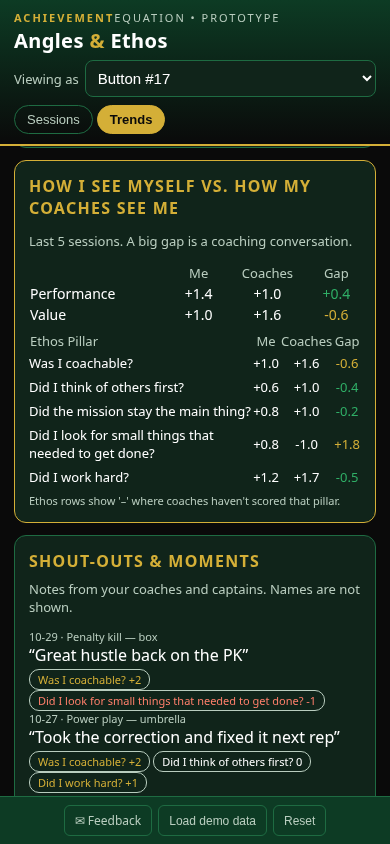
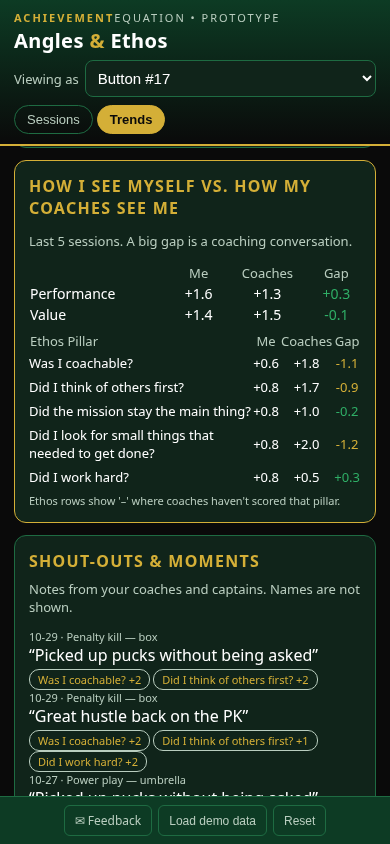
Additional Factors: legend highlight, 1-5 hint at top, Meals + Other notes with share control; shared off-ice notes cards

diff --git a/index.html b/index.html
@@ -42,19 +42,21 @@ const uid=()=>Math.random().toString(36).slice(2,9);
 let S=load(); let tab=null; let draft={};
 function blank(){return{team:'My Team',users:[{id:'coach1',name:'Coach',role:'coach'}],ethos:['Was I coachable?','Did I think of others first?','Did the mission stay the main thing?','Did I look for small things that needed to get done?','Did I work hard?'],angles:{tools:'Tools',technology:'Technology'},sessions:[],entries:[],others:[],me:'coach1'}}
 function migrate(d){const b=blank();if(!d||typeof d!=='object')return b;d.angles={tools:'Tools',technology:'Technology'};for(const k in b)if(d[k]==null)d[k]=b[k];if(!Array.isArray(d.ethos)||d.ethos.some(x=>/placeholder/i.test(x)))d.ethos=b.ethos;while(d.ethos.length<5)d.ethos.push(b.ethos[d.ethos.length]);
- ['users','sessions','entries','others'].forEach(k=>{if(!Array.isArray(d[k]))d[k]=[]});d.entries.forEach(e=>{if(!Array.isArray(e.ethos))e.ethos=[];if(!Array.isArray(e.ethosNotes))e.ethosNotes=[];if(!Array.isArray(e.techScores))e.techScores=[];e.factors=e.factors||{};if(!Array.isArray(e.toolScores)){e.toolScores=[];e.techGear=[];if(e.tools||e.tech)e.gearNote=[e.tools&&('Tools: '+e.tools),e.tech&&('Technology: '+e.tech)].filter(Boolean).join(' · ');if(e.tech==='N/A')e.techNA=true}if(!Array.isArray(e.techGear))e.techGear=[]});d.sessions.forEach(x=>{if(!Array.isArray(x.techniques))x.techniques=[];if(!Array.isArray(x.tools))x.tools=[];if(!Array.isArray(x.tech))x.tech=[]});d.users.forEach(u=>{if(u.role!=='coach'&&!POS[u.pos])u.pos='F'});d.sessions.forEach(x=>{if(!x.groups||typeof x.groups!=='object')x.groups={};for(const g in x.groups){const c=x.groups[g];if(!POS[g]||!c||typeof c!=='object'){delete x.groups[g];continue}['techniques','tools','tech'].forEach(k=>{if(!Array.isArray(c[k]))c[k]=[]});if(!c.techniques.length)delete x.groups[g]}if(x.scope!=='team'&&x.scope!=='groups'){if(Object.keys(x.groups).length){Object.keys(POS).forEach(g=>{if(!x.groups[g])x.groups[g]={techniques:[...x.techniques],tools:[...x.tools],tech:[...x.tech]}});x.scope='groups'}else x.scope='team'}if(x.scope==='groups'){for(const g in x.groups)if(typeof x.groups[g].tactic!=='string'||!x.groups[g].tactic)x.groups[g].tactic=x.tactic||'';if(!Object.keys(x.groups).length)x.scope='team'}else x.groups={};if(typeof x.tactic!=='string')x.tactic=''});d.sessions.forEach(x=>{const n=x.coachNotes;if(!n||typeof n!=='object'||Array.isArray(n)){x.coachNotes=typeof n==='string'&&n.trim()?{change:n,learned:'',surprised:'',at:null}:null}else['change','learned','surprised'].forEach(k=>{if(typeof n[k]!=='string')n[k]=''})});d.entries.forEach(e=>{const f=e.factors;if(f.life===undefined&&f.rec===undefined&&f.nutrition===undefined){const ok=v=>typeof v==='number'&&v>=1&&v<=5;const nf={sleepH:f.sleepH??null,sleep:ok(f.sleepQ)?f.sleepQ:null,nutrition:ok(f.nutr)?f.nutr:null,life:ok(f.stress)?6-f.stress:null,notes:f.notes||''};const rr=[ok(f.sore)?6-f.sore:null,ok(f.hyd)?f.hyd:null].filter(v=>v!=null);nf.rec=rr.length?Math.round(rr.reduce((a,b)=>a+b,0)/rr.length*10)/10:null;e.factors=nf}});d.others.forEach(o=>{if(!Array.isArray(o.ethos))o.ethos=[];o.ethos=o.ethos.slice(0,5).map(v=>typeof v==='number'&&v>=-1&&v<=2?v:null);if(typeof o.note!=='string')o.note=''});d.v=8;return d}
+ ['users','sessions','entries','others'].forEach(k=>{if(!Array.isArray(d[k]))d[k]=[]});d.entries.forEach(e=>{if(!Array.isArray(e.ethos))e.ethos=[];if(!Array.isArray(e.ethosNotes))e.ethosNotes=[];if(!Array.isArray(e.techScores))e.techScores=[];e.factors=e.factors||{};if(!Array.isArray(e.toolScores)){e.toolScores=[];e.techGear=[];if(e.tools||e.tech)e.gearNote=[e.tools&&('Tools: '+e.tools),e.tech&&('Technology: '+e.tech)].filter(Boolean).join(' · ');if(e.tech==='N/A')e.techNA=true}if(!Array.isArray(e.techGear))e.techGear=[]});d.sessions.forEach(x=>{if(!Array.isArray(x.techniques))x.techniques=[];if(!Array.isArray(x.tools))x.tools=[];if(!Array.isArray(x.tech))x.tech=[]});d.users.forEach(u=>{if(u.role!=='coach'&&!POS[u.pos])u.pos='F'});d.sessions.forEach(x=>{if(!x.groups||typeof x.groups!=='object')x.groups={};for(const g in x.groups){const c=x.groups[g];if(!POS[g]||!c||typeof c!=='object'){delete x.groups[g];continue}['techniques','tools','tech'].forEach(k=>{if(!Array.isArray(c[k]))c[k]=[]});if(!c.techniques.length)delete x.groups[g]}if(x.scope!=='team'&&x.scope!=='groups'){if(Object.keys(x.groups).length){Object.keys(POS).forEach(g=>{if(!x.groups[g])x.groups[g]={techniques:[...x.techniques],tools:[...x.tools],tech:[...x.tech]}});x.scope='groups'}else x.scope='team'}if(x.scope==='groups'){for(const g in x.groups)if(typeof x.groups[g].tactic!=='string'||!x.groups[g].tactic)x.groups[g].tactic=x.tactic||'';if(!Object.keys(x.groups).length)x.scope='team'}else x.groups={};if(typeof x.tactic!=='string')x.tactic=''});d.sessions.forEach(x=>{const n=x.coachNotes;if(!n||typeof n!=='object'||Array.isArray(n)){x.coachNotes=typeof n==='string'&&n.trim()?{change:n,learned:'',surprised:'',at:null}:null}else['change','learned','surprised'].forEach(k=>{if(typeof n[k]!=='string')n[k]=''})});d.entries.forEach(e=>{const f=e.factors;if(f.life===undefined&&f.rec===undefined&&f.nutrition===undefined){const ok=v=>typeof v==='number'&&v>=1&&v<=5;const nf={sleepH:f.sleepH??null,sleep:ok(f.sleepQ)?f.sleepQ:null,nutrition:ok(f.nutr)?f.nutr:null,life:ok(f.stress)?6-f.stress:null,notes:f.notes||''};const rr=[ok(f.sore)?6-f.sore:null,ok(f.hyd)?f.hyd:null].filter(v=>v!=null);nf.rec=rr.length?Math.round(rr.reduce((a,b)=>a+b,0)/rr.length*10)/10:null;e.factors=nf}});d.others.forEach(o=>{if(!Array.isArray(o.ethos))o.ethos=[];o.ethos=o.ethos.slice(0,5).map(v=>typeof v==='number'&&v>=-1&&v<=2?v:null);if(typeof o.note!=='string')o.note=''});d.entries.forEach(e=>{const f=e.factors;if(f.meals===undefined&&f.other===undefined){const n=(f.notes||'').trim();f.meals=/pasta|chicken|pre-game|meal|ate|breakfast|lunch|dinner|snack/i.test(n)?n:'';f.other=f.meals?'':n}if(typeof f.meals!=='string')f.meals='';if(typeof f.other!=='string')f.other='';delete f.notes;if(!['me','coach','cc'].includes(f.share))f.share='me'});d.v=10;return d}
+function sharedNotes(aids,viewer,title){const A=new Set(aids),ok=viewer==='captain'?['cc']:['coach','cc'];const L=S.entries.filter(e=>A.has(e.athleteId)&&e.factors&&ok.includes(e.factors.share)&&((e.factors.meals||'').trim()||(e.factors.other||'').trim())&&sess(e.sessionId)).sort((a,b)=>sess(b.sessionId).date.localeCompare(sess(a.sessionId).date)).slice(0,8);return `<div class="card sharedn"><h2>${title||'Shared off-ice notes'}</h2><p class="muted" style="margin-top:0">${viewer==='captain'?'Only notes players shared with coaches &amp; captains.':'Notes players chose to share with coaches (or coaches &amp; captains).'}</p>${L.length?L.map(e=>{const u=S.users.find(u=>u.id===e.athleteId),x=sess(e.sessionId),f=e.factors;return `<div class="it" style="display:block"><div><b>${esc(u?u.name:'?')}</b> <span class="muted" style="font-size:11px">${x.date.slice(5)} · ${f.share==='cc'?'Coaches &amp; captains':'Coaches'}</span></div>${f.meals?`<div style="font-size:13px"><span class="muted">Meals:</span> ${esc(f.meals)}</div>`:''}${f.other?`<div style="font-size:13px"><span class="muted">Other:</span> ${esc(f.other)}</div>`:''}</div>`}).join(''):'<p class="muted">Nothing shared yet.</p>'}</div>`}
 const SCL=()=>(S.users.find(u=>u.id===S.me)||{}).role==='captain'?'Captain Score':'Coach Score';
 const ESH=['Coachable','Others first','Mission','Small things','Work hard'];
 function playerCmp(aid){const L=sorted().filter(x=>S.entries.some(e=>e.sessionId===x.id&&e.athleteId===aid)||S.others.some(o=>o.sessionId===x.id&&o.athleteId===aid)).slice(-5),ids=new Set(L.map(x=>x.id));const EN=S.entries.filter(e=>ids.has(e.sessionId)&&e.athleteId===aid),OT=S.others.filter(o=>ids.has(o.sessionId)&&o.athleteId===aid);return [{n:'Tm Perf',me:avg(EN.map(e=>e.selfPerf)),co:avg(OT.map(o=>o.perf))},{n:'Tm Value',me:avg(EN.map(e=>e.selfVal)),co:avg(OT.map(o=>o.val))},...S.ethos.map((_,i)=>({n:ESH[i]||('Pillar '+(i+1)),me:avg(EN.map(e=>(e.ethos||[])[i])),co:avg(OT.map(o=>(o.ethos||[])[i]))}))]}
 function playerEthosCard(as,lab){if(!as.length)return '';const cols=playerCmp(as[0].id).map(c=>c.n);const cell=(c,big)=>{let g=c.me!=null&&c.co!=null?c.me-c.co:null;if(g!=null&&Math.abs(g)<0.05)g=0;const col=g==null?'inherit':Math.abs(g)<0.5?'#2fae66':'#d4af37';return `<td style="text-align:center;padding:4px 5px;white-space:nowrap;border-left:1px solid #1e6b42;${big?'background:rgba(255,127,107,.18);outline:1px solid #ff7f6b;':''}"><span>${fmt(c.me)}</span><span class="muted"> / </span><span>${c.co==null?'–':fmt(c.co)}</span><br><b style="color:${col};font-size:11px">${g==null?'–':(g>0?'+':'')+g.toFixed(1)}</b>${big?'<div style="font-size:9px;color:#ff7f6b">▲ overrates</div>':''}</td>`};const rows=as.map(a=>{const cs=playerCmp(a.id);let bi=-1,bg=0.5;cs.forEach((c,i)=>{if(c.me!=null&&c.co!=null&&c.me-c.co>=bg){bg=c.me-c.co;bi=i}});return `<tr data-drill="${a.id}" style="cursor:pointer;border-top:1px solid #1e6b42"><td style="position:sticky;left:0;background:var(--navy2);padding:4px 6px;white-space:nowrap;font-weight:600">${esc(a.name)} <span class="tag">${POS[posOf(a)]}</span> ›</td>${cs.map((c,i)=>cell(c,i===bi)).join('')}</tr>`}).join('');return `<div class="card pecard"><h2>${lab}: Player Ethos &amp; Teammates — Self vs Coach</h2><p class="muted" style="margin-top:0">Last 5 sessions per player. Each cell: Self / Coach, Gap below (green = small, gold = big). <span style="color:#ff7f6b">Coral</span> = player's biggest overrating (Self ≥0.5 above Coach). '–' = not scored. Tap a player for their trends.</p><div style="overflow-x:auto;-webkit-overflow-scrolling:touch"><table style="border-collapse:collapse;font-size:12px;min-width:640px"><tr class="muted"><td style="position:sticky;left:0;background:var(--navy2);padding:4px 6px">Player</td>${cols.map(c=>`<td style="text-align:center;padding:4px 5px;white-space:nowrap">${c}</td>`).join('')}</tr>${rows}</table></div><div class="muted" style="font-size:11px;margin-top:6px;line-height:1.4">Tm Perf / Tm Value = Teammates Performance / Value. ${S.ethos.map((n,i)=>`<b>${ESH[i]||'Pillar '+(i+1)}</b>: ${esc(n)}`).join(' · ')}</div></div>`}
 function ethosCmp(aids){const A=new Set(aids);const L=sorted().filter(x=>S.entries.some(e=>e.sessionId===x.id&&A.has(e.athleteId))||S.others.some(o=>o.sessionId===x.id&&A.has(o.athleteId))).slice(-5),ids=new Set(L.map(x=>x.id));const EN=S.entries.filter(e=>ids.has(e.sessionId)&&A.has(e.athleteId)),OT=S.others.filter(o=>ids.has(o.sessionId)&&A.has(o.athleteId));return S.ethos.map((n,i)=>({n,me:avg(EN.map(e=>(e.ethos||[])[i])),co:avg(OT.map(o=>(o.ethos||[])[i])),c:OT.filter(o=>(o.ethos||[])[i]!=null).length}))}
 function ethosTable(rows,meLab){const gap=(a,c)=>{const g=(a!=null&&c!=null)?a-c:null;return `<td style="text-align:center;color:${g==null?'inherit':Math.abs(g)<0.5?'#2fae66':'#d4af37'}">${g==null?'–':(g>0?'+':'')+g.toFixed(1)}</td>`};return `<table class="ethcmp" style="width:100%;border-collapse:collapse;font-size:13px;margin-top:6px"><tr class="muted"><td>Ethos Pillar</td><td style="text-align:center">${meLab}</td><td style="text-align:center">Coaches</td><td style="text-align:center">Gap</td></tr>${rows.map(r=>`<tr><td style="padding:3px 0">${esc(r.n)}</td><td style="text-align:center">${fmt(r.me)}</td><td style="text-align:center">${r.co==null?'–':fmt(r.co)}</td>${r.co==null?'<td style="text-align:center">–</td>':gap(r.me,r.co)}</tr>`).join('')}</table>`}
+let facHi=(()=>{try{return sessionStorage.getItem('ae_facHi')||null}catch(e){return null}})();
 const FAC=[{k:'sleep',n:'Sleep',c:'#d4af37'},{k:'nutrition',n:'Nutrition',c:'#ffffff'},{k:'life',n:'Life away from the ice',c:'#5ec8f2'},{k:'rec',n:'Recovery',c:'#ff7f6b'}];
 function facChart(pts,ctx){if(!pts.some(p=>FAC.some(f=>p[f.k]!=null)))return '<p class="muted">No Additional Factors logged yet.</p>';const W=340,H=170,L=26,R=ctx?26:6,T=8,B=20,iw=W-L-R,ih=H-T-B;const y=v=>T+ih*(1-(v-1)/4),x=i=>L+(pts.length<2?iw/2:iw*i/(pts.length-1));let g='';[1,2,3,4,5].forEach(v=>g+=`<line x1="${L}" x2="${W-R}" y1="${y(v)}" y2="${y(v)}" stroke="#1e6b42" stroke-dasharray="2 3"/><text x="8" y="${y(v)+3}">${v}</text>`);
  if(ctx){const cy=v=>T+ih*(1-(v+1)/3);let d='';pts.forEach((p,i)=>{if(p[ctx.k]!=null)d+=(d?'L':'M')+x(i).toFixed(1)+','+cy(p[ctx.k]).toFixed(1)});g+=`<path d="${d}" fill="none" stroke="#9fbfa9" stroke-width="1.5" stroke-dasharray="4 3" opacity=".55"/><text x="${W-R+2}" y="${cy(0)+3}">0</text><text x="${W-R+2}" y="${cy(2)+3}">+2</text>`}
- FAC.forEach(l=>{let d='';pts.forEach((p,i)=>{if(p[l.k]!=null)d+=(d?'L':'M')+x(i).toFixed(1)+','+y(p[l.k]).toFixed(1)});g+=`<path class="fac-${l.k}" d="${d}" fill="none" stroke="${l.c}" stroke-width="2"/>`;pts.forEach((p,i)=>{if(p[l.k]!=null)g+=`<circle cx="${x(i)}" cy="${y(p[l.k])}" r="2.2" fill="${l.c}"/>`})});
+ const hi=FAC.some(f=>f.k===facHi)?facHi:null;FAC.forEach(l=>{const op=!hi||hi===l.k?1:.15,sw=hi===l.k?3.5:2;let d='';pts.forEach((p,i)=>{if(p[l.k]!=null)d+=(d?'L':'M')+x(i).toFixed(1)+','+y(p[l.k]).toFixed(1)});g+=`<path class="fac-${l.k}" d="${d}" fill="none" stroke="${l.c}" stroke-width="${sw}" opacity="${op}"/>`;pts.forEach((p,i)=>{if(p[l.k]!=null)g+=`<circle cx="${x(i)}" cy="${y(p[l.k])}" r="${hi===l.k?3.2:2.2}" fill="${l.c}" opacity="${op}"/>`})});
  const step=Math.ceil(pts.length/6);pts.forEach((p,i)=>{if(i%step===0)g+=`<text x="${x(i)-10}" y="${H-5}">${p.label}</text>`});
- return `<svg viewBox="0 0 ${W} ${H}" width="100%">${g}</svg><div class="legend">${FAC.map(l=>`<span><i style="background:${l.c}"></i>${l.n}</span>`).join('')}${ctx?`<span><i style="background:#9fbfa9;opacity:.6"></i>${ctx.n} (dashed, right axis)</span>`:''}</div><p class="muted" style="font-size:11px;margin:4px 0 0">Rated 1–5, higher = better.</p>`}
+ return `<svg viewBox="0 0 ${W} ${H}" width="100%">${g}</svg><div class="legend faclg"><span data-fac="" style="cursor:pointer;padding:2px 8px;border:1px solid ${hi?'var(--line)':'var(--gold)'};border-radius:10px;${hi?'':'color:var(--gold)'}">All</span>${FAC.map(l=>`<span data-fac="${l.k}" style="cursor:pointer;padding:2px 6px;border-radius:10px;opacity:${!hi||hi===l.k?1:.4};${hi===l.k?`border:1px solid ${l.c};font-weight:700`:'border:1px solid transparent'}"><i style="background:${l.c}"></i>${l.n}</span>`).join('')}${ctx?`<span><i style="background:#9fbfa9;opacity:.6"></i>${ctx.n} (dashed, right axis)</span>`:''}</div><p class="muted" style="font-size:11px;margin:4px 0 0">Rated 1–5, higher = better. Tap a factor to highlight it.</p>`}
 const facPts=(es)=>Object.fromEntries(FAC.map(f=>[f.k,avg(es.map(e=>e?.factors?.[f.k]))]));
 const posOf=u=>u&&POS[u.pos]?u.pos:'F';
 const lines=id=>document.getElementById(id).value.split('\n').map(s=>s.trim()).filter(Boolean);
@@ -132,19 +134,19 @@ log(){const ss=sessFor(S.me).reverse();if(!ss.length)return `<div class="card"><
  <label>Gear note (optional)</label><input id="gNote" value="${esc(d.gearNote)}" placeholder="e.g. Edges felt dull in 3rd period"></div>
  <h2 class="half">Part B · As a Teammate &amp; Member <span class="muted">(Ethos)</span></h2>
  <div class="card"><h2>How I made my team &amp; organization better</h2><p class="muted">Required each session. Answer all 5 Ethos Pillars (no Elite — Elite only exists vs an opponent).</p>${S.ethos.map((e,i)=>`<h3>${i+1}. ${esc(e)} ${/placeholder/i.test(e)?'<span class="ph">GM to supply</span>':''}</h3>${scaleHTML('e'+i,(d.ethos||[])[i],false)}<input class="enote" id="en${i}" value="${esc((d.ethosNotes||[])[i])}" placeholder="How I lived it (optional)">`).join('')}</div>
- <h2 class="half">Additional Factors</h2><div class="card"><p class="muted" style="margin-top:0;font-style:italic">Add when able. Notice how these impact you as an athlete, and collectively as a team.</p><div class="row"><div><label>Sleep (hrs)</label><input type="number" step="0.5" id="f_sleepH" value="${f.sleepH??''}"></div><div><label>Sleep 1-5</label><input type="number" min="1" max="5" id="f_sleep" value="${f.sleep??''}"></div></div>
+ <h2 class="half">Additional Factors</h2><div class="card"><p class="muted" style="margin-top:0;font-style:italic">Add when able. Notice how these impact you as an athlete, and collectively as a team.</p><p class="fhint" style="margin:6px 0 8px;padding:6px 8px;border-left:3px solid var(--gold);font-size:12px"><b style="color:var(--gold)">Rate 1–5 — higher is better.</b><br><span class="muted">Life away from the ice: school, family, stress (5 = calm). Recovery: soreness, hydration, rest (5 = fresh).</span></p><div class="row"><div><label>Sleep (hrs)</label><input type="number" step="0.5" id="f_sleepH" value="${f.sleepH??''}"></div><div><label>Sleep 1-5</label><input type="number" min="1" max="5" id="f_sleep" value="${f.sleep??''}"></div></div>
  <div class="row"><div><label>Nutrition 1-5</label><input type="number" min="1" max="5" id="f_nutrition" value="${f.nutrition??''}"></div><div><label>Life away from the ice 1-5</label><input type="number" min="1" max="5" id="f_life" value="${f.life??''}"></div></div>
- <div class="row"><div><label>Recovery 1-5</label><input type="number" min="1" max="5" id="f_rec" value="${f.rec??''}"></div><div></div></div><p class="muted" style="font-size:11px;margin:2px 0 6px">All 1–5, higher = better. Life away from the ice: school, family, stress (5 = calm). Recovery: soreness, hydration, rest (5 = fresh).</p>
- <label>Meals / notes</label><textarea id="f_notes" rows="2">${esc(f.notes)}</textarea></div>
+ <div class="row"><div><label>Recovery 1-5</label><input type="number" min="1" max="5" id="f_rec" value="${f.rec??''}"></div><div></div></div>
+ <label>Meals <span class="muted">(what I ate)</span></label><textarea id="f_meals" rows="2" placeholder="e.g. Pasta + chicken pre-game">${esc(f.meals||'')}</textarea><label>Other notes <span class="muted">(sleep, life away from the ice, recovery)</span></label><textarea id="f_other" rows="2" placeholder="e.g. Late night studying; legs sore from yesterday">${esc(f.other||'')}</textarea><label>Share these notes with</label><select id="f_share">${[['me','Just me'],['coach','My coaches'],['cc','Coaches & captains']].map(([v,l])=>`<option value="${v}" ${(f.share||'me')===v?'selected':''}>${l}</option>`).join('')}</select><p class="muted" style="font-size:11px;margin:4px 0 0">Applies to Meals and Other notes. Share only with people who've earned your trust. You can change this anytime.</p></div>
  <button class="btn" id="saveLog" style="width:100%">Save session (Player + Member)</button>`},
 others(){const ss=sorted().reverse();if(!ss.length)return '<div class="card"><p class="muted">No sessions yet.</p></div>';
  if(!draft.osid||!sess(draft.osid))draft.osid=ss[0].id;const x=sess(draft.osid),comp=x.type==='competition';
  return `<div class="card"><h2>Score Others</h2><p class="muted">Rate each teammate on Performance and Value. Ethos Pillars are optional.</p><select id="pickO">${ss.map(s=>`<option value="${s.id}" ${s.id===x.id?'selected':''}>${s.date} · ${esc(s.tactic)}</option>`).join('')}</select></div>`+
  athletes().filter(a=>a.id!==S.me&&inSess(x,a.id)).map(a=>{const o=S.others.find(o=>o.sessionId===x.id&&o.athleteId===a.id&&o.raterId===S.me)||{};
  return `<div class="card"><h3 style="margin-top:0">${esc(a.name)} ${a.number?'#'+a.number:''} ${a.role==='captain'?'<span class="tag comp">C</span>':''}</h3><div class="osec" style="color:var(--gold);font-weight:700;font-size:13px;letter-spacing:.04em;margin-top:6px">Angles · Teammates (${SCL()})</div><label>Performance</label>${scaleHTML('op|'+a.id,o.perf,comp)}<label>Value</label>${scaleHTML('ov|'+a.id,o.val,comp)}${(()=>{const oe=o.ethos||[],cnt=oe.filter(v=>v!=null).length;return `<details class="oeth" data-aid="${a.id}" ${draft.oOpen&&draft.oOpen[a.id]?'open':''} style="margin-top:10px"><summary style="cursor:pointer;color:var(--gold);font-weight:600">Ethos Pillars (${SCL()}, optional)${cnt?` · ${cnt}/5 scored`:''}${o.note?' · note':''}</summary><p class="muted" style="font-size:11px;margin:4px 0">Score any pillars you noticed. Tap again to clear.</p>${S.ethos.map((n,i)=>`<label>${esc(n)}</label>${scaleHTML('oe'+i+'|'+a.id,oe[i],false)}`).join('')}<label>Moment I noticed</label><input id="on_${a.id}" class="onote" data-aid="${a.id}" maxlength="200" placeholder="Optional: a low moment or a great one" value="${esc(o.note||'')}"></details>`})()}</div>`}).join('')},
-trends(){return trendView(S.me)},
+trends(){return trendView(S.me)+(me().role==='captain'?sharedNotes(athletes().filter(a=>a.id!==S.me).map(a=>a.id),'captain','Shared with captains'):'')},
 team(){const tp=draft.tPos||'all';const as=athletes().filter(a=>tp==='all'||posOf(a)===tp);let pick=draft.tAth||'__team';if(pick!=='__team'&&!as.find(a=>a.id===pick))pick='__team';
- return `<div class="card"><h2>Team Rollup</h2><label style="margin-top:0">Position group</label><select id="tPos">${[['all','All players'],...Object.keys(POS).map(g=>[g,POSP[g]])].map(([v,l])=>`<option value="${v}" ${tp===v?'selected':''}>${l}</option>`).join('')}</select><label>Athlete</label><select id="tAth"><option value="__team">${tp==='all'?'Whole team':'All '+POSP[tp]}</option>${as.map(a=>`<option value="${a.id}" ${pick===a.id?'selected':''}>${esc(a.name)}</option>`).join('')}</select></div>`+(pick==='__team'?playerEthosCard(as,tp==='all'?'Team':POSP[tp])+teamView(as,tp):trendView(pick))+cnHistory()},
+ return `<div class="card"><h2>Team Rollup</h2><label style="margin-top:0">Position group</label><select id="tPos">${[['all','All players'],...Object.keys(POS).map(g=>[g,POSP[g]])].map(([v,l])=>`<option value="${v}" ${tp===v?'selected':''}>${l}</option>`).join('')}</select><label>Athlete</label><select id="tAth"><option value="__team">${tp==='all'?'Whole team':'All '+POSP[tp]}</option>${as.map(a=>`<option value="${a.id}" ${pick===a.id?'selected':''}>${esc(a.name)}</option>`).join('')}</select></div>`+(pick==='__team'?playerEthosCard(as,tp==='all'?'Team':POSP[tp])+teamView(as,tp)+sharedNotes(as.map(a=>a.id),'coach'):trendView(pick)+sharedNotes([pick],'coach','Shared off-ice notes · '+esc((S.users.find(u=>u.id===pick)||{}).name||'')))+cnHistory()},
 roster(){return `<div class="card"><h2>Team</h2><input id="teamName" value="${esc(S.team)}"></div><div class="card"><h2>Roster &amp; Access</h2><div class="list">${S.users.map(u=>`<div class="it"><span>${esc(u.name)} ${u.number?'#'+u.number:''}${u.role!=='coach'?` <span class="tag">${POS[posOf(u)]}</span>`:''}</span><span class="row" style="flex:0 0 auto">${u.role!=='coach'?`<select data-pos="${u.id}" style="width:auto">${Object.keys(POS).map(g=>`<option value="${g}" ${posOf(u)===g?'selected':''}>${POS[g]}</option>`).join('')}</select>`:''}<select data-role="${u.id}" style="width:auto">${['athlete','captain','coach'].map(r=>`<option ${u.role===r?'selected':''}>${r}</option>`).join('')}</select>${u.id!==S.me?`<button class="btn sec sm" data-del="${u.id}">✕</button>`:''}</span></div>`).join('')}</div>
 <div class="row" style="margin-top:10px"><input id="nName" placeholder="Name"><input id="nNum" placeholder="#" style="max-width:60px"><button class="btn sm" id="addU" style="flex:0 0 auto">Add</button></div></div>
 `},
@@ -184,7 +186,7 @@ function teamView(as,tp){as=as||athletes();tp=tp||'all';const ids=new Set(as.map
  <h3 style="margin-top:12px">"Gear or me?" flags per athlete</h3><p class="muted" style="font-style:italic">Was it the gear, or was it me?</p>${as.map(a=>({a,n:gearFlags(a.id).length})).filter(r=>r.n).sort((x,y)=>y.n-x.n).map(r=>`<div class="it"><span>${esc(r.a.name)}</span><b style="color:var(--gold)">${r.n}</b></div>`).join('')||'<p class="muted">No flags.</p>'}</div>
  <div class="card"><h2>${lab} leaderboard (last 5, by Combined)</h2><div class="list">${rows.map(r=>`<div class="it"><span>${esc(r.a.name)} <span class="tag">${posOf(r.a)}</span> <span class="muted">${r.n} logs</span></span><span>Ply <b style="color:var(--gold)">${fmt(r.p)}</b> · Mem <b>${fmt(r.m)}</b> · Σ <b style="color:var(--gold)">${fmt(r.tt)}</b></span></div>`).join('')}</div></div>`}
 // events
-document.addEventListener('click',ev=>{const op=ev.target.closest('[data-open]');if(op&&!ev.target.closest('.cdet')&&me().role==='coach'){draft.open=draft.open===op.dataset.open?null:op.dataset.open;render();return}
+document.addEventListener('click',ev=>{const fc=ev.target.closest&&ev.target.closest('[data-fac]');if(fc){const k=fc.dataset.fac||null;facHi=(k&&facHi!==k)?k:null;try{facHi?sessionStorage.setItem('ae_facHi',facHi):sessionStorage.removeItem('ae_facHi')}catch(e){}const y=scrollY;render();window.scrollTo(0,y);return}const op=ev.target.closest('[data-open]');if(op&&!ev.target.closest('.cdet')&&me().role==='coach'){draft.open=draft.open===op.dataset.open?null:op.dataset.open;render();return}
 const b=ev.target.closest('button');if(!b)return;
  if(b.dataset.savecn){if(me().role!=='coach')return;const x=sess(b.dataset.savecn);if(!x)return;const n={at:new Date().toISOString()};document.querySelectorAll('[data-cn]').forEach(t=>n[t.dataset.cn]=t.value.trim());x.coachNotes=n;save();render();toast('Coach Notes saved');return}
  if(b.dataset.tab){tab=b.dataset.tab;draft={};render();return}
@@ -209,7 +211,7 @@ const b=ev.target.closest('button');if(!b)return;
  if(b.id==='resetBtn'){if(confirm('Erase all data?')){S=blank();save();tab=null;draft={};render()}}
 });
 function grab(){const g=id=>document.getElementById(id);if(!g('focus'))return;draft.focus=g('focus').value;draft.gearNote=g('gNote').value;const xn=g('xName').value.trim();draft.extra=Object.assign(draft.extra||{},{name:xn,kind:g('xKind').value});
- const n=id=>g(id).value===''?null:+g(id).value;const c5=id=>{const v=n(id);return v==null?null:Math.min(5,Math.max(1,v))};draft.factors={sleepH:n('f_sleepH'),sleep:c5('f_sleep'),nutrition:c5('f_nutrition'),life:c5('f_life'),rec:c5('f_rec'),notes:g('f_notes').value};draft.techScores=draft.techScores||[];draft.ethosNotes=S.ethos.map((_,i)=>g('en'+i)?g('en'+i).value:'')}
+ const n=id=>g(id).value===''?null:+g(id).value;const c5=id=>{const v=n(id);return v==null?null:Math.min(5,Math.max(1,v))};draft.factors={sleepH:n('f_sleepH'),sleep:c5('f_sleep'),nutrition:c5('f_nutrition'),life:c5('f_life'),rec:c5('f_rec'),meals:g('f_meals').value,other:g('f_other').value,share:['me','coach','cc'].includes(g('f_share').value)?g('f_share').value:'me'};draft.techScores=draft.techScores||[];draft.ethosNotes=S.ethos.map((_,i)=>g('en'+i)?g('en'+i).value:'')}
 document.addEventListener('click',ev=>{const tr=ev.target.closest&&ev.target.closest('tr[data-drill]');if(tr){draft.tAth=tr.dataset.drill;render();window.scrollTo(0,0)}});
 document.addEventListener('toggle',ev=>{const d=ev.target;if(d.classList&&d.classList.contains('oeth')){draft.oOpen=draft.oOpen||{};draft.oOpen[d.dataset.aid]=d.open}},true);
 document.addEventListener('change',ev=>{const t=ev.target;
@@ -239,7 +241,7 @@ function demo(){const D=blank();D.team='Stars Elite 19U (demo)';
  for(let d=0;d<14;d++){const dt=new Date(start);dt.setDate(start.getDate()+d*2.5|0);const comp=d%4===3;const t=T[d%T.length];
   const s={id:'s'+d,date:dt.toISOString().slice(0,10),type:comp?'competition':'practice',opponent:comp?opps[(d/4|0)%4]:'',tactic:t[0],techniques:t[1],tools:G[d%2],tech:GT[d%3],groups:{}};const gg=GG[t[0]]||{};for(const g in gg)s.groups[g]={techniques:gg[g],tools:g==='G'?GoT:G[d%2],tech:GT[d%3]};if(!gg.G&&d%3===0)s.groups.G={techniques:t[1],tools:GoT,tech:GT[d%3]};if(comp){s.groups={};s.scope='team';s.scrim=d===7;if(s.scrim)s.opponent='Intra-squad'}else if(d===5){s.scope='groups';s.tactic='Gap control on the rush';s.groups={D:{tactic:'Gap control on the rush',techniques:['Match speed early','Stick on puck','Angle to the boards','Close on the hands'],tools:G[0],tech:['Video review app']}}}else if(d===10){s.scope='groups';s.tactic='Rebound control';s.groups={G:{tactic:'Rebound control',techniques:['Square up early','Absorb or steer to corner','Recover to post'],tools:GoT,tech:[]}}}else if(Object.keys(s.groups).length){s.scope='groups';Object.keys(POS).forEach(g=>{if(!s.groups[g])s.groups[g]={techniques:t[1],tools:g==='G'?GoT:G[d%2],tech:GT[d%3]};s.groups[g].tactic=t[0]})}else s.scope='team';D.sessions.push(s);
   D.users.filter(u=>u.role!=='coach').forEach((u,i)=>{if(s.scope==='groups'&&!s.groups[u.pos])return;if(rnd()<.1)return;const sleep=Math.round((6+rnd()*3.5)*2)/2;const base=(sleep-7.5)*.5+d*.05+(i===0?.3:0);
-   D.entries.push({sessionId:s.id,athleteId:u.id,focus:['Quick feet on retrieval','Communicate early','Win puck battles','Stick on puck'][(i+d)%4],selfPerf:sc(base+.3,comp),selfVal:sc(base+.6,comp),...(()=>{const P=(s.groups[u.pos]||s);const ts=P.techniques.map(()=>sc(base+.4,comp));const bad=(i===0&&d%5===2)||(i===3&&d%4===1)||(i===1&&d%7===5);if(bad)ts.forEach((_,k)=>ts[k]=k%2?-1:0);return{techScores:ts,toolScores:P.tools.map((_,k)=>bad&&k===0?-1:sc(base+.5+(d%4===3?-1.4:0),false)),techGear:P.tech.map(()=>rnd()>.8?'NA':(bad?0:sc(base+.4,false))),techNA:s.tech.length?undefined:true,gearNote:bad?'Edges felt dull':''}})(),ethos:D.ethos.map(()=>sc(.8,false)),ethosNotes:D.ethos.map((_,k)=>k===3&&rnd()>.6?'Helped carry gear / picked up teammates':''),factors:(()=>{const q=v=>Math.min(5,Math.max(1,Math.round(v)));return{sleepH:sleep,sleep:q((sleep-5)*1.2+rnd()*1.2),nutrition:q(2.5+rnd()*2.5+(i%3===0?.5:0)),life:q(3+rnd()*2-(d%6===4?2:0)),rec:q(4-(comp?1:0)-rnd()*1.8+(sleep>8?.7:0)),notes:'Pasta + chicken pre-game'}})()});
+   D.entries.push({sessionId:s.id,athleteId:u.id,focus:['Quick feet on retrieval','Communicate early','Win puck battles','Stick on puck'][(i+d)%4],selfPerf:sc(base+.3,comp),selfVal:sc(base+.6,comp),...(()=>{const P=(s.groups[u.pos]||s);const ts=P.techniques.map(()=>sc(base+.4,comp));const bad=(i===0&&d%5===2)||(i===3&&d%4===1)||(i===1&&d%7===5);if(bad)ts.forEach((_,k)=>ts[k]=k%2?-1:0);return{techScores:ts,toolScores:P.tools.map((_,k)=>bad&&k===0?-1:sc(base+.5+(d%4===3?-1.4:0),false)),techGear:P.tech.map(()=>rnd()>.8?'NA':(bad?0:sc(base+.4,false))),techNA:s.tech.length?undefined:true,gearNote:bad?'Edges felt dull':''}})(),ethos:D.ethos.map(()=>sc(.8,false)),ethosNotes:D.ethos.map((_,k)=>k===3&&rnd()>.6?'Helped carry gear / picked up teammates':''),factors:(()=>{const q=v=>Math.min(5,Math.max(1,Math.round(v)));return{sleepH:sleep,sleep:q((sleep-5)*1.2+rnd()*1.2),nutrition:q(2.5+rnd()*2.5+(i%3===0?.5:0)),life:q(3+rnd()*2-(d%6===4?2:0)),rec:q(4-(comp?1:0)-rnd()*1.8+(sleep>8?.7:0)),meals:['Pasta + chicken pre-game','Oatmeal, eggs, banana','Rice bowl + salmon','Skipped lunch, bagel before ice','Turkey wrap + fruit'][(i+d)%5],other:rnd()<.35?['Late night studying for a test','Legs heavy from yesterday','Great nap before practice','Family stuff on my mind','Extra stretching + foam roll'][(i*3+d)%5]:'',share:(i+d)%7===2?'coach':(i+d)%9===4?'cc':'me'}})()});
    ['a1','a2','coach1'].filter(x=>x!==u.id).forEach(rid=>{if(rnd()<.5)D.others.push({sessionId:s.id,athleteId:u.id,raterId:rid,perf:sc(base+.2,comp),val:sc(base+.7,comp),...(()=>{if(rnd()>.4)return{ethos:[],note:''};const eth=D.ethos.map(()=>rnd()<.45?sc(base+.6,false):null);const good=['Picked up pucks without being asked','Stayed after to help the goalie','First one to tap sticks after a teammate mistake','Took the correction and fixed it next rep','Huge energy on the bench all game'],low=['Argued the call instead of resetting','Coasted on the back-check late','Left gear out in the room','Tuned out during the board talk'];const bad=rnd()<.3;if(bad){const k=Math.floor(rnd()*5);eth[k]=rnd()<.6?-1:0}return{ethos:eth,note:rnd()<.7?(bad?low:good)[Math.floor(rnd()*(bad?4:5))]:''}})()})})})}
  const CN={0:{change:"Too many reps of the D-to-D before the first pass. Next time I'll cut it to two and get wingers moving earlier so the strong-side outlet is actually open.",learned:"Shoulder checks fell off as soon as forecheckers pressured. I need to add pressure earlier in the drill, not just at the end.",surprised:"The goalies' puck-stopping behind the net was the best part of the breakout. Tess talked the whole time."},3:{change:"Should have walked the box rotation at half speed before the game. We went straight to live reps in warmup and the weak side kept collapsing.",learned:"Game pressure exposes our pressure-on-bobble timing. We attacked on cue in practice but froze vs Lakeshore.",surprised:"How much the bench energy dipped after their first goal. That's an Ethos conversation, not a tactics one."},7:{change:"I explained the umbrella for 6 minutes. Next time: 90 seconds on the whiteboard, then walk it on the ice.",learned:"The bumper finds soft ice when the point walks the line with her head up. Teach the point first.",surprised:"Players rated their gear low on a night their own scores were low. Worth a 'gear or me?' talk."},10:{change:"Second breakout session and the wingers still drift off the wall. Next time I'll put a cone on the strong-side hash so they have a target.",learned:"D shoulder checks improved a lot since the first breakout day. Repetition beat re-explaining.",surprised:"Kenzie volunteered to stay late and help pick up pucks without being asked. Pillar 4 in action."}};
  Object.entries(CN).forEach(([i,n],k)=>{const s=D.sessions[+i];if(s)s.coachNotes=Object.assign({at:new Date(new Date(s.date+'T20:00').getTime()+3600e3).toISOString()},n)});
